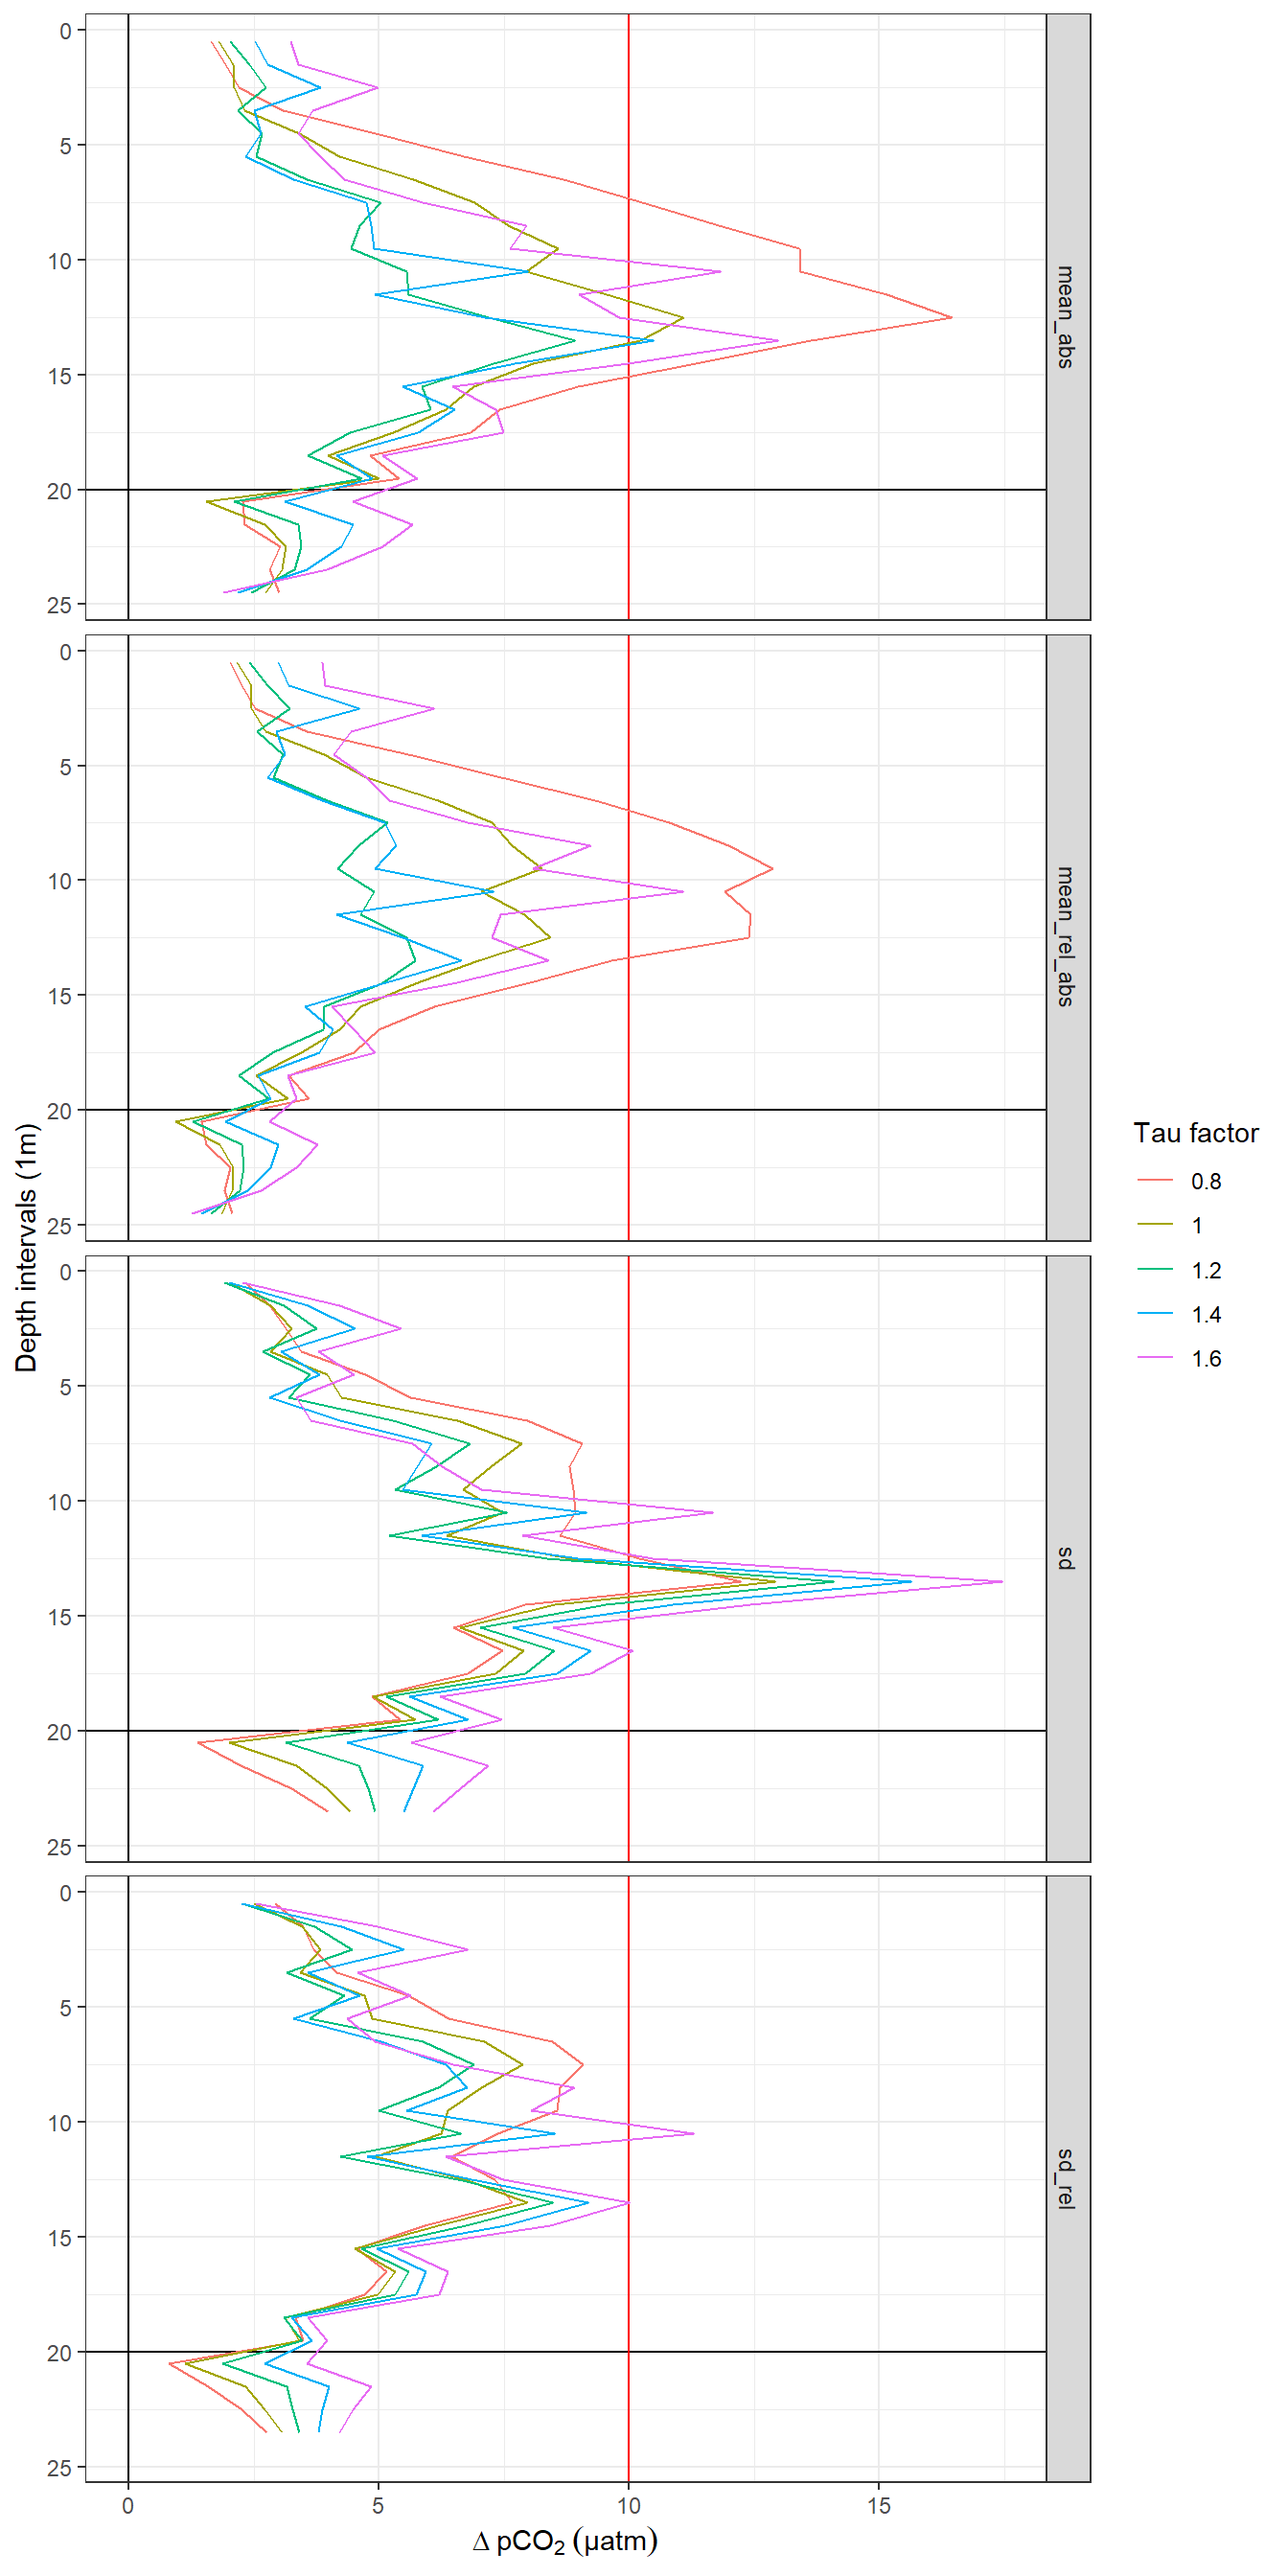
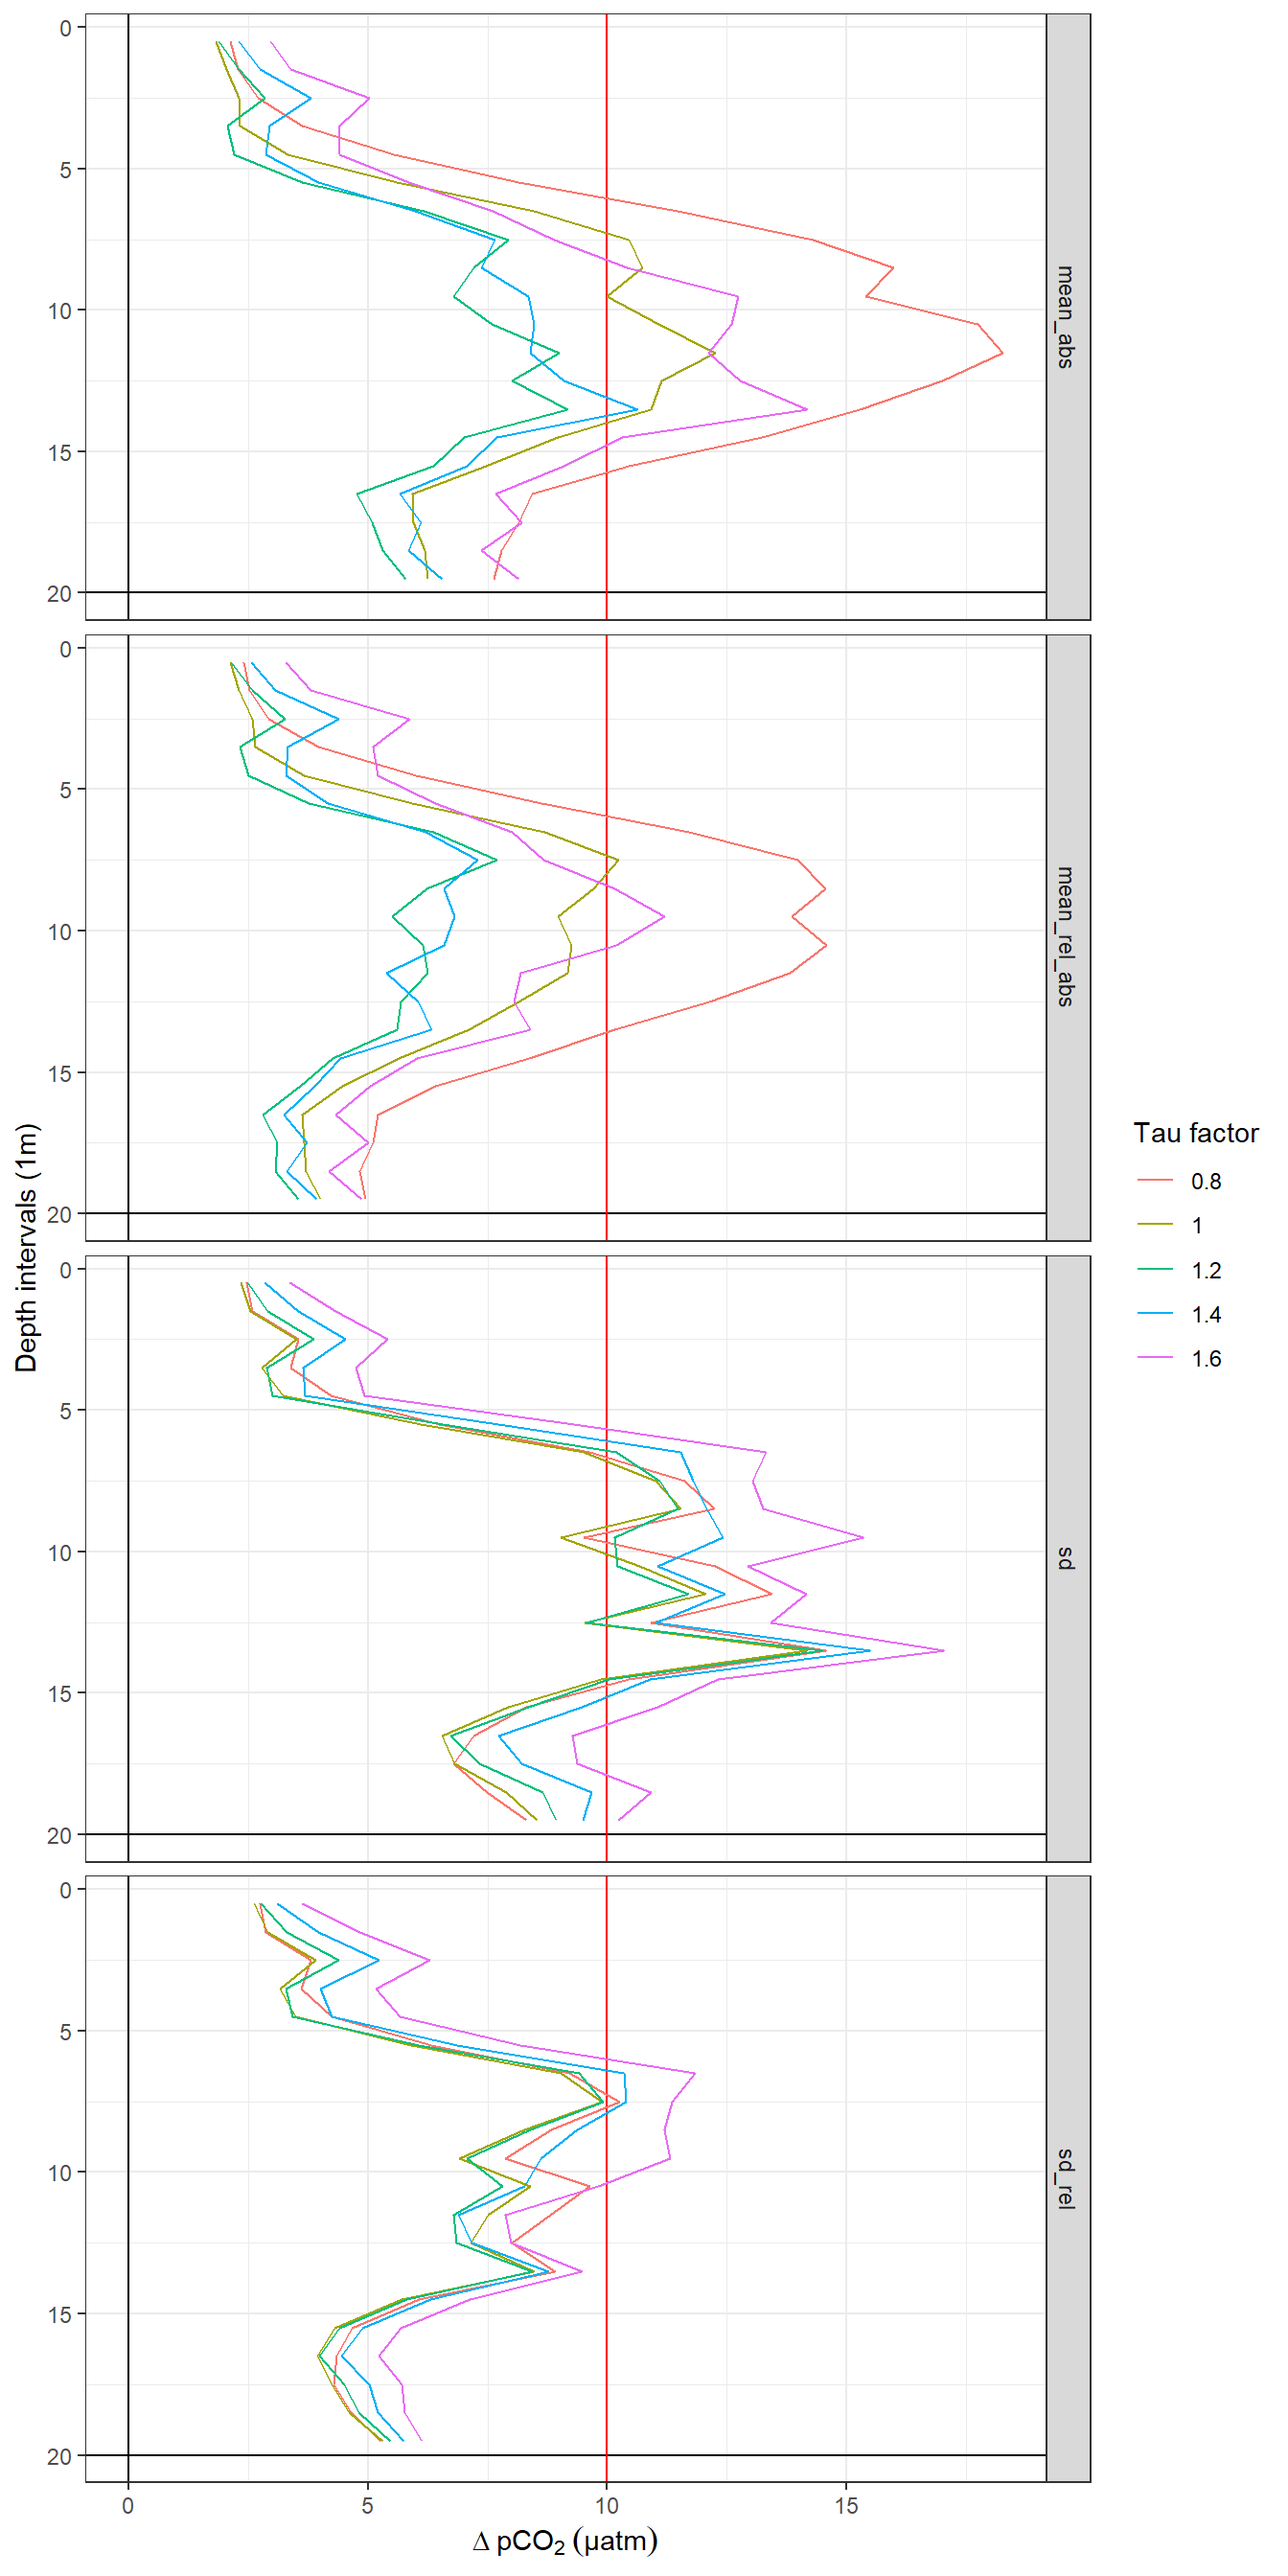
Build site.

diff --git a/docs/response_time.html b/docs/response_time.html
@@ -558,16 +558,16 @@ This reproducible <a href="http://rmarkdown.rstudio.com">R Markdown</a> analysis
 <div class="panel panel-default">
 <div class="panel-heading">
 <p class="panel-title">
-<a data-toggle="collapse" data-parent="#workflowr-checks" href="#strongRepositoryversionstrongahrefhttpsgithubcomjensdanielmuellerBloomSailtreea12b57980c349d28407e385849d6f5075a40a857targetblanka12b579a"> <span class="glyphicon glyphicon-ok text-success" aria-hidden="true"></span> <strong>Repository version:</strong> <a href="https://github.com/jens-daniel-mueller/BloomSail/tree/a12b57980c349d28407e385849d6f5075a40a857" target="_blank">a12b579</a> </a>
+<a data-toggle="collapse" data-parent="#workflowr-checks" href="#strongRepositoryversionstrongahrefhttpsgithubcomjensdanielmuellerBloomSailtree5cc31b0fe6e22fb9913f96c9d423658e9f2024cftargetblank5cc31b0a"> <span class="glyphicon glyphicon-ok text-success" aria-hidden="true"></span> <strong>Repository version:</strong> <a href="https://github.com/jens-daniel-mueller/BloomSail/tree/5cc31b0fe6e22fb9913f96c9d423658e9f2024cf" target="_blank">5cc31b0</a> </a>
 </p>
 </div>
[2 lines of base64/hex data omitted]
 <div class="panel-body">
 <p>
 Great! You are using Git for version control. Tracking code development and connecting the code version to the results is critical for reproducibility.
 </p>
 <p>
-The results in this page were generated with repository version <a href="https://github.com/jens-daniel-mueller/BloomSail/tree/a12b57980c349d28407e385849d6f5075a40a857" target="_blank">a12b579</a>. See the <em>Past versions</em> tab to see a history of the changes made to the R Markdown and HTML files.
+The results in this page were generated with repository version <a href="https://github.com/jens-daniel-mueller/BloomSail/tree/5cc31b0fe6e22fb9913f96c9d423658e9f2024cf" target="_blank">5cc31b0</a>. See the <em>Past versions</em> tab to see a history of the changes made to the R Markdown and HTML files.
 </p>
 <p>
 Note that you need to be careful to ensure that all relevant files for the analysis have been committed to Git prior to generating the results (you can use <code>wflow_publish</code> or <code>wflow_git_commit</code>). workflowr only checks the R Markdown file, but you know if there are other scripts or data files that it depends on. Below is the status of the Git repository when the results were generated:
@@ -623,6 +623,40 @@ Message
 </tr>
 </thead>
 <tbody>
+<tr>
+<td>
+Rmd
+</td>
+<td>
+<a href="https://github.com/jens-daniel-mueller/BloomSail/blob/5cc31b0fe6e22fb9913f96c9d423658e9f2024cf/analysis/response_time.Rmd" target="_blank">5cc31b0</a>
+</td>
+<td>
+jens-daniel-mueller
+</td>
+<td>
+2020-05-06
+</td>
+<td>
+revised selection criteria for summary analytics up vs down
+</td>
+</tr>
+<tr>
+<td>
+html
+</td>
+<td>
+<a href="https://rawcdn.githack.com/jens-daniel-mueller/BloomSail/907b163dc51a68f1e221f5480f82dd07c049b062/docs/response_time.html" target="_blank">907b163</a>
+</td>
+<td>
+jens-daniel-mueller
+</td>
+<td>
+2020-05-06
+</td>
+<td>
+Build site.
+</td>
+</tr>
 <tr>
 <td>
 Rmd
@@ -3452,15 +3486,27 @@ tm_grid_stat %&gt;%
 <pre class="r"><code>tm_grid &lt;- full_join(tm_grid, tm_grid_stat)
 tm_grid_high_res &lt;- full_join(tm_grid_high_res, tm_grid_stat)
 
-rm(tm_grid_stat)</code></pre>
+meta &lt;- read_csv(here::here(&quot;Data/TinaV/Sensor&quot;,
+                            &quot;Sensor_meta.csv&quot;),
+                 col_types = cols(ID = col_character()))
+
+tm_grid_stat &lt;- full_join(meta, tm_grid_stat)
+
+tm_grid_stat  %&gt;% 
+ write_csv(here::here(&quot;data/_merged_data_files/response_time&quot;,
+                      &quot;tm_grid_stat_meta.csv&quot;))
+
+rm(tm_grid_stat, meta)</code></pre>
 <div id="define-dep-and-pco2-thresholds" class="section level3">
 <h3><span class="header-section-number">4.3.1</span> Define dep and pCO2 thresholds</h3>
-<pre class="r"><code>dep_max_lim &lt;- 25
-pCO2_max_lim &lt;- 250</code></pre>
-<p>Summary metric are restricted to profiles that did not exceed a maximum sampling depth of 25 m and pCO2 of 250 µatm.</p>
+<pre class="r"><code>dep_max_lim &lt;- 30
+pCO2_max_lim &lt;- 300
+dep_lim &lt;- 20</code></pre>
+<p>Summary metric are restricted to profiles that did not exceed a maximum sampling depth of 30 m and pCO2 of 300 µatm.</p>
 <pre class="r"><code>tm_grid_shallow &lt;- tm_grid %&gt;% 
   filter(dep_max &lt;= dep_max_lim,
-         pCO2_max &lt;= pCO2_max_lim) %&gt;% 
+         pCO2_max &lt;= pCO2_max_lim,
+         dep_grid &lt;= dep_lim) %&gt;% 
   group_by(ID, station, tau_factor, correction) %&gt;% 
   mutate(nr_na = sum(is.na(pCO2_delta))) %&gt;% 
   ungroup() %&gt;% 
@@ -3468,7 +3514,8 @@ pCO2_max_lim &lt;- 250</code></pre>
 
 tm_grid_shallow_high_res &lt;- tm_grid_high_res %&gt;% 
   filter(dep_max &lt;= dep_max_lim,
-         pCO2_max &lt;= pCO2_max_lim) %&gt;% 
+         pCO2_max &lt;= pCO2_max_lim,
+         dep_grid &lt;= dep_lim) %&gt;% 
   group_by(ID, station, tau_factor, correction) %&gt;% 
   mutate(nr_na = sum(is.na(pCO2_delta))) %&gt;% 
   ungroup() %&gt;% 
@@ -3563,7 +3610,7 @@ tau_factor_min &lt;- tm_grid_shallow_sum_mean_high_res %&gt;%
   slice(which.min(pCO2_delta_mean)) %&gt;% 
   select(tau_factor) %&gt;% 
   pull()</code></pre>
-<p>A tau factor of 1.25 resulted in the lowest absolute mean offset (4.2 µatm) and will be used for response time correction.</p>
+<p>A tau factor of 1.25 resulted in the lowest absolute mean offset (5.48 µatm) and will be used for response time correction.</p>
 <p>Likewise, we analyse the offset from the pCO<sub>2</sub> reference value:</p>
 <pre class="r"><code># tm_equi_delta_sum_highres &lt;-
 #  read_csv(here::here(&quot;data/_merged_data_files&quot;,
@@ -3840,7 +3887,6 @@ for(i_ID in unique(tm$ID)){
            pCO2_RT = if_else(pCO2_RT %in% c(Inf, -Inf), NaN, pCO2_RT),
            window = window,
            pCO2_mean = rolling_mean(pCO2_RT)
-           #pCO2_RT_median = rolling_median(pCO2_RT)
            ) %&gt;% 
     ungroup()
   
